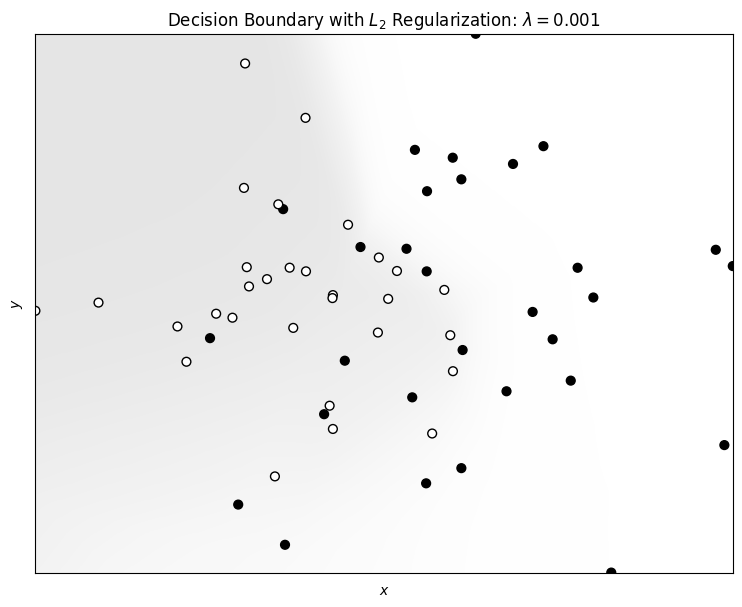
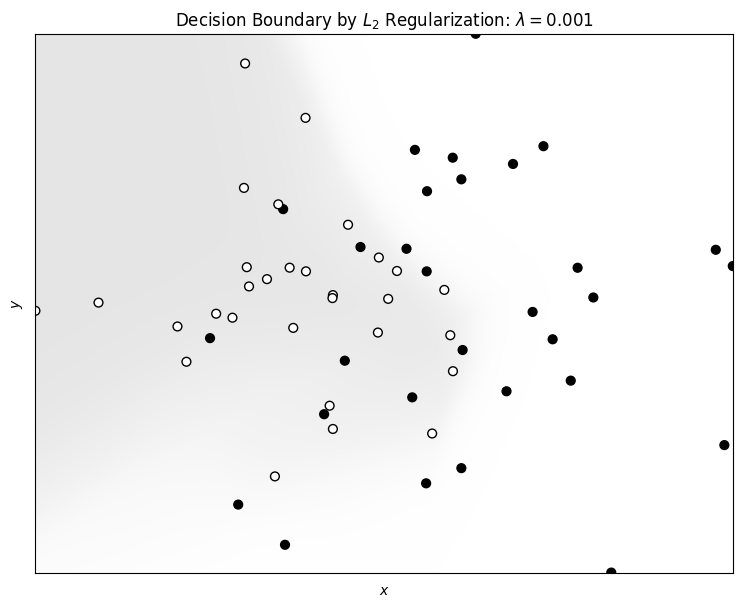
update

Changed region(s): [[0.217, 0.0, 0.8059, 0.0593]]

diff --git a/examples/example-04-4-regularization--comparison-of-decision-boundaries.py b/examples/example-04-4-regularization--comparison-of-decision-boundaries.py
@@ -197,7 +197,7 @@ for l2_reg_lambda in [0.0, 0.001, 0.005, 0.01, 0.02]:
     plot_decision_boundary(
         xx, yy, z, train_x, train_y,
         file=f'../figures/figure-04-4-{index}.png',
-        title=f"Decision Boundary with $L_2$ Regularization: $\lambda={l2_reg_lambda}$"
+        title=f"Decision Boundary by $L_2$ Regularization: $\lambda={l2_reg_lambda}$"
     )
     index += 1
 
@@ -208,5 +208,5 @@ xx, yy, z = make_mesh_predict(0.001, train_x, logreg)
 plot_decision_boundary(
     xx, yy, z, train_x, train_y,
     file=f'../figures/figure-04-4-{index}.png',
-    title=f"Decision Boundary with Logistic Regression"
+    title=f"Decision Boundary by Logistic Regression"
 )
